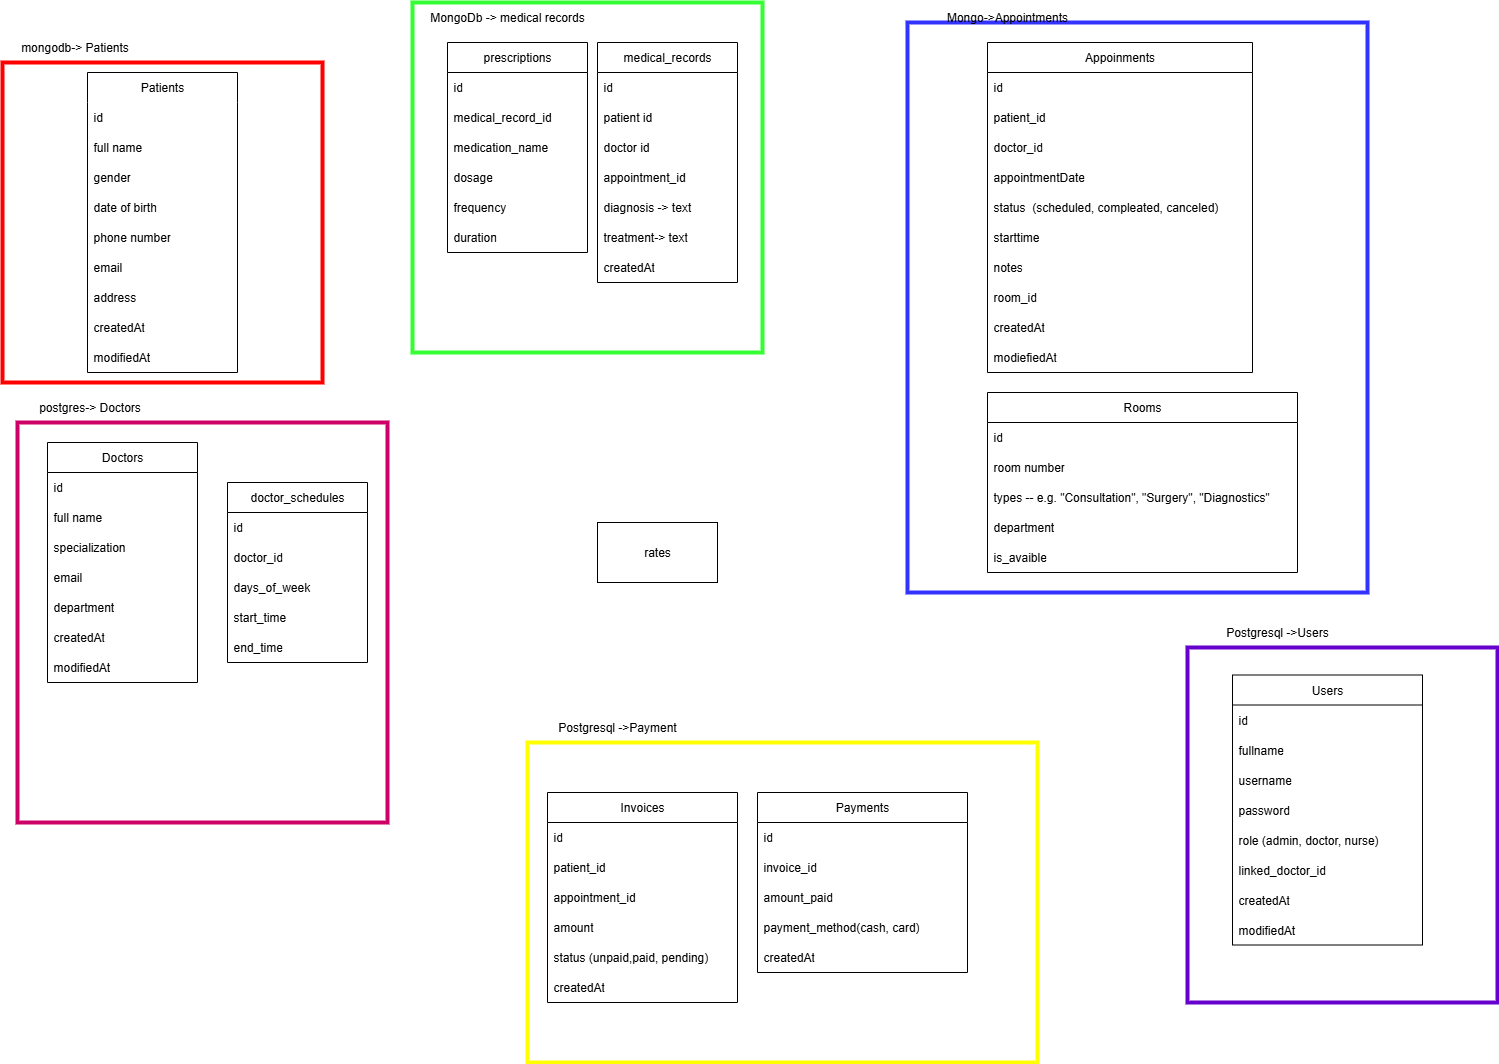
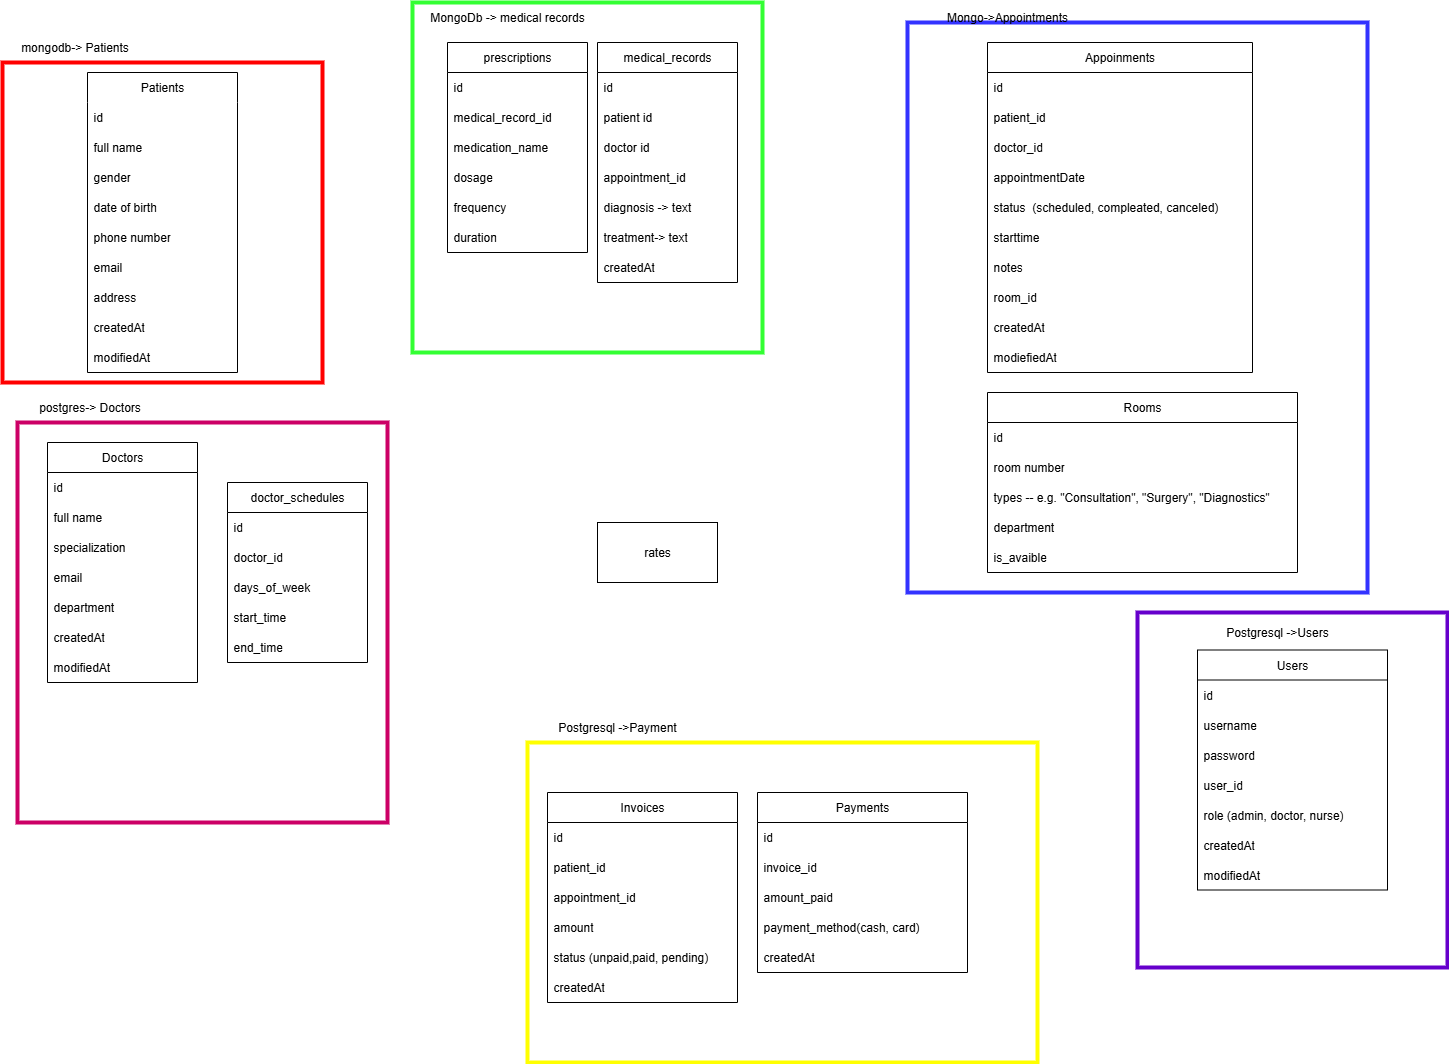
all

diff --git a/services/users/src/main/java/com/maxvpire/users/config/KafkaConsumerConfig.java b/services/users/src/main/java/com/maxvpire/users/config/KafkaConsumerConfig.java
@@ -1,0 +1,44 @@
+package com.maxvpire.users.config;
+
+import org.apache.kafka.clients.producer.ProducerConfig;
+import org.apache.kafka.common.serialization.StringDeserializer;
+import org.springframework.beans.factory.annotation.Value;
+import org.springframework.context.annotation.Bean;
+import org.springframework.context.annotation.Configuration;
+import org.springframework.kafka.config.ConcurrentKafkaListenerContainerFactory;
+import org.springframework.kafka.config.KafkaListenerContainerFactory;
+import org.springframework.kafka.core.ConsumerFactory;
+import org.springframework.kafka.core.DefaultKafkaConsumerFactory;
+import org.springframework.kafka.listener.ConcurrentMessageListenerContainer;
+import org.springframework.kafka.support.serializer.JsonDeserializer;
+
+import java.util.HashMap;
+import java.util.Map;
+
+@Configuration
+public class KafkaConsumerConfig {
+    @Value("${spring.kafka.bootstrap-servers}")
+    private String bootstrapServers;
+
+    public Map<String, Object> consumerConfigs() {
+        Map<String, Object> props = new HashMap<>();
+        props.put(ProducerConfig.BOOTSTRAP_SERVERS_CONFIG, bootstrapServers);
+        props.put(ProducerConfig.KEY_SERIALIZER_CLASS_CONFIG, StringDeserializer.class);
+        props.put(ProducerConfig.VALUE_SERIALIZER_CLASS_CONFIG, JsonDeserializer.class);
+        return props;
+    }
+
+    @Bean
+    public ConsumerFactory<String, Object> consumerFactory() {
+        return new DefaultKafkaConsumerFactory<>(consumerConfigs());
+    }
+
+    @Bean
+    public KafkaListenerContainerFactory<ConcurrentMessageListenerContainer<String, Object>> factory(
+            ConsumerFactory<String, Object> consumerFactory
+    ) {
+        ConcurrentKafkaListenerContainerFactory<String, Object> factory = new ConcurrentKafkaListenerContainerFactory<>();
+        factory.setConsumerFactory(consumerFactory);
+        return factory;
+    }
+}

diff --git a/services/doctors/src/main/java/com/maxvpire/doctors/doctor/DoctorService.java b/services/doctors/src/main/java/com/maxvpire/doctors/doctor/DoctorService.java
@@ -2,12 +2,14 @@ package com.maxvpire.doctors.doctor;
 
 import com.maxvpire.doctors.doctor.dto.DoctorRequest;
 import com.maxvpire.doctors.doctor.dto.DoctorResponse;
+import com.maxvpire.doctors.doctor.dto.DoctorTopicResponse;
 import com.maxvpire.doctors.exception.DoctorNotFoundException;
 import com.maxvpire.doctors.exception.NotValidGenderTypeException;
 import com.maxvpire.doctors.exception.RepeatedActionException;
 import com.maxvpire.doctors.schedule.ScheduleService;
 import lombok.RequiredArgsConstructor;
 import org.apache.commons.lang.StringUtils;
+import org.springframework.kafka.core.KafkaTemplate;
 import org.springframework.stereotype.Service;
 
 import java.util.List;
@@ -19,6 +21,7 @@ public class DoctorService {
     private final DoctorRepository doctorRepository;
     private final DoctorMapper doctorMapper;
     private final ScheduleService scheduleService;
+    private final KafkaTemplate<String, DoctorTopicResponse> kafkaTemplate;
 
     public String create(DoctorRequest request) {
         Doctor doctor = Doctor.builder()
@@ -30,8 +33,14 @@ public class DoctorService {
                 .specialization(request.specialization())
                 .gender(request.gender())
                 .build();
+        DoctorTopicResponse response = DoctorTopicResponse.builder()
+                .id(doctor.getId())
+                .phone(doctor.getPhone())
+                .build();
+        kafkaTemplate.send("doctors", response);
         return doctorRepository.save(doctor).getId();
     }
+
 
     public List<DoctorResponse> findAll() {
         return doctorRepository.findAll()

diff --git a/services/doctors/src/main/java/com/maxvpire/doctors/config/KafkaProducerConfig.java b/services/doctors/src/main/java/com/maxvpire/doctors/config/KafkaProducerConfig.java
@@ -1,6 +1,6 @@
-package com.maxvpire.appointments.config;
+package com.maxvpire.doctors.config;
 
-import com.maxvpire.appointments.appointment.dto.RatesKafkaResponse;
+import com.maxvpire.doctors.doctor.dto.DoctorTopicResponse;
 import org.apache.kafka.clients.producer.ProducerConfig;
 import org.apache.kafka.common.serialization.StringSerializer;
 import org.springframework.beans.factory.annotation.Value;
@@ -35,11 +35,11 @@ public class KafkaProducerConfig {
     public KafkaTemplate<String, String> kafkaTemplate(
             ProducerFactory<String, String> producerFactory
     ) {
-        return new KafkaTemplate<>(producerFactory);
+        return  new KafkaTemplate<>(producerFactory);
     }
 
     @Bean
-    public ProducerFactory<String, RatesKafkaResponse> ratesDtoProducerFactory() {
+    public ProducerFactory<String, DoctorTopicResponse> doctorDtoProducerFactory() {
         Map<String, Object> props = new HashMap<>();
         props.put(ProducerConfig.BOOTSTRAP_SERVERS_CONFIG, bootstrapServers);
         props.put(ProducerConfig.KEY_SERIALIZER_CLASS_CONFIG, StringSerializer.class);
@@ -48,10 +48,9 @@ public class KafkaProducerConfig {
     }
 
     @Bean
-    public KafkaTemplate<String, RatesKafkaResponse> ratesDtoKafkaTemplate(
-            ProducerFactory<String, RatesKafkaResponse> ratesDtoProducerFactory
+    public KafkaTemplate<String, DoctorTopicResponse> doctorDtoKafkaTemplate(
+            ProducerFactory<String, DoctorTopicResponse> ratesDtoProducerFactory
     ) {
         return new KafkaTemplate<>(ratesDtoProducerFactory);
     }
-
 }

diff --git a/services/users/src/main/java/com/maxvpire/users/users/User.java b/services/users/src/main/java/com/maxvpire/users/users/User.java
@@ -1,0 +1,44 @@
+package com.maxvpire.users.users;
+
+import jakarta.persistence.*;
+import lombok.*;
+import org.springframework.data.annotation.CreatedDate;
+import org.springframework.data.annotation.LastModifiedDate;
+import org.springframework.data.jpa.domain.support.AuditingEntityListener;
+
+import java.time.LocalDateTime;
+
+@AllArgsConstructor
+@NoArgsConstructor
+@Getter
+@Setter
+@Builder
+@Entity
+@Table(name = "users")
+@EntityListeners(AuditingEntityListener.class)
+public class User {
+    @Id
+    @GeneratedValue(strategy = GenerationType.UUID)
+    private String id;
+
+    @Column(nullable = false, unique = true)
+    private String username;
+
+    @Column(nullable = false)
+    private String password;
+
+    @Column(nullable = false, unique = true, name = "user_id")
+    private String userId;
+
+    @Enumerated(EnumType.STRING)
+    @Column(nullable = false, name = "user_role")
+    private Role role;
+
+    @Column(nullable = false, updatable = false, name = "created_at")
+    @CreatedDate
+    private LocalDateTime createdAt;
+
+    @Column(nullable = false, name = "updated_at")
+    @LastModifiedDate
+    private LocalDateTime updatedAt;
+}

diff --git a/services/medicalrecords/src/main/java/com/maxvpire/medicalrecords/medical_records/MedicationRecordsService.java b/services/medicalrecords/src/main/java/com/maxvpire/medicalrecords/medical_records/MedicationRecordsService.java
@@ -35,7 +35,6 @@ public class MedicationRecordsService {
     @KafkaListener(topics = "appointments", groupId = "my-consumer-group-2", containerFactory = "kafkaListenerContainerFactory")
     public String listen(ConsumerRecord<String, Object> message) {
         try {
-            System.out.println("Consumer received message: " + message.value() + "@@@@@@@@@@@@@@@@@@@@@@@@@@@@@@@@@@@@@@@@@@@@@@@@");
             ObjectMapper mapper = new ObjectMapper();
             String json = message.value().toString();
             KafkaResponse kafkaResponse = mapper.readValue(json, KafkaResponse.class);

diff --git a/services/doctors/src/main/java/com/maxvpire/doctors/config/KafkaTopicConfig.java b/services/doctors/src/main/java/com/maxvpire/doctors/config/KafkaTopicConfig.java
@@ -1,0 +1,14 @@
+package com.maxvpire.doctors.config;
+
+import org.apache.kafka.clients.admin.NewTopic;
+import org.springframework.context.annotation.Bean;
+import org.springframework.context.annotation.Configuration;
+import org.springframework.kafka.config.TopicBuilder;
+
+@Configuration
+public class KafkaTopicConfig {
+    @Bean
+    public NewTopic doctorTopic() {
+        return TopicBuilder.name("doctors").build();
+    }
+}

diff --git a/services/rates/src/main/java/com/maxvpire/rates/RatesApplication.java b/services/rates/src/main/java/com/maxvpire/rates/RatesApplication.java
@@ -2,8 +2,10 @@ package com.maxvpire.rates;
 
 import org.springframework.boot.SpringApplication;
 import org.springframework.boot.autoconfigure.SpringBootApplication;
+import org.springframework.data.jpa.repository.config.EnableJpaAuditing;
 
 @SpringBootApplication
+@EnableJpaAuditing
 public class RatesApplication {
 
 	public static void main(String[] args) {

diff --git a/services/users/src/main/java/com/maxvpire/users/UsersApplication.java b/services/users/src/main/java/com/maxvpire/users/UsersApplication.java
@@ -2,8 +2,10 @@ package com.maxvpire.users;
 
 import org.springframework.boot.SpringApplication;
 import org.springframework.boot.autoconfigure.SpringBootApplication;
+import org.springframework.data.jpa.repository.config.EnableJpaAuditing;
 
 @SpringBootApplication
+@EnableJpaAuditing
 public class UsersApplication {
 
 	public static void main(String[] args) {

diff --git a/services/users/src/main/java/com/maxvpire/users/users/UserService.java b/services/users/src/main/java/com/maxvpire/users/users/UserService.java
@@ -1,0 +1,12 @@
+package com.maxvpire.users.users;
+
+import lombok.RequiredArgsConstructor;
+import org.springframework.stereotype.Service;
+
+@Service
+@RequiredArgsConstructor
+public class UserService {
+    private final UserRepository userRepository;
+
+
+}

diff --git a/services/users/src/main/java/com/maxvpire/users/users/UserRepository.java b/services/users/src/main/java/com/maxvpire/users/users/UserRepository.java
@@ -1,0 +1,6 @@
+package com.maxvpire.users.users;
+
+import org.springframework.data.jpa.repository.JpaRepository;
+
+public interface UserRepository extends JpaRepository<User, String> {
+}

diff --git a/services/doctors/src/main/java/com/maxvpire/doctors/doctor/dto/DoctorTopicResponse.java b/services/doctors/src/main/java/com/maxvpire/doctors/doctor/dto/DoctorTopicResponse.java
@@ -1,0 +1,10 @@
+package com.maxvpire.doctors.doctor.dto;
+
+import lombok.Builder;
+
+@Builder
+public record DoctorTopicResponse(
+        String id,
+        String phone
+) {
+}

diff --git a/services/users/src/main/java/com/maxvpire/users/users/Role.java b/services/users/src/main/java/com/maxvpire/users/users/Role.java
@@ -1,0 +1,5 @@
+package com.maxvpire.users.users;
+
+public enum Role {
+    ADMINISTRATION, PATIENT, DOCTOR
+}
